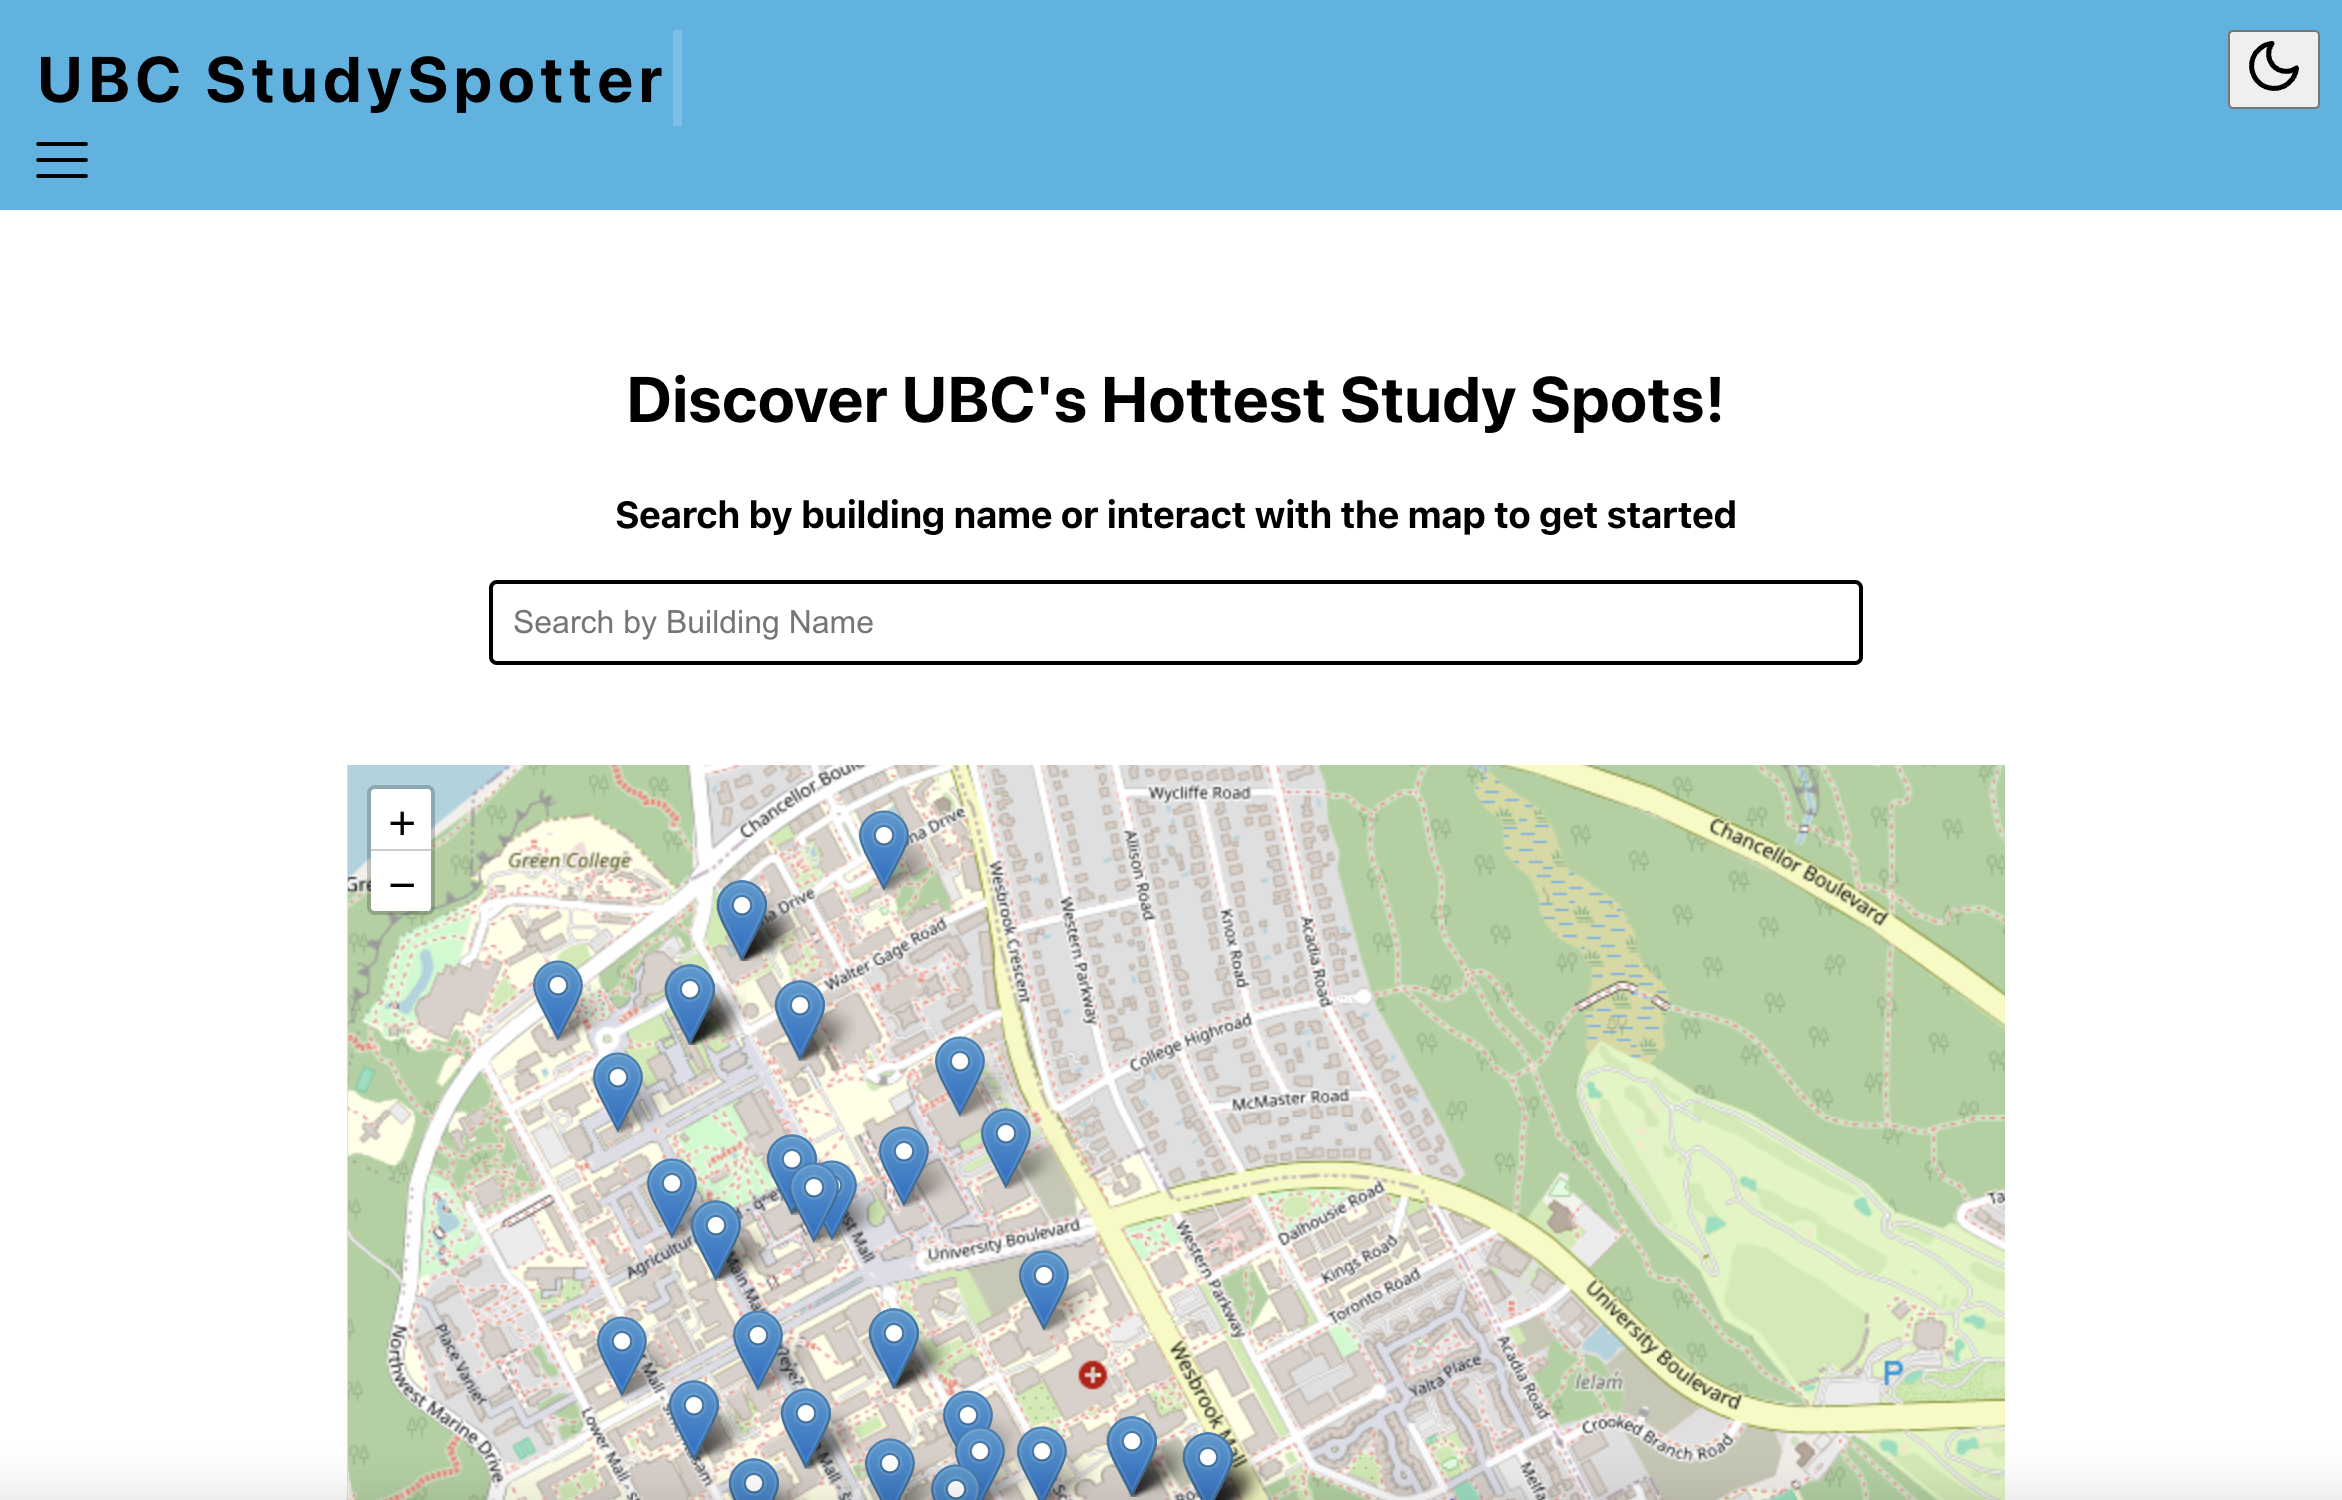
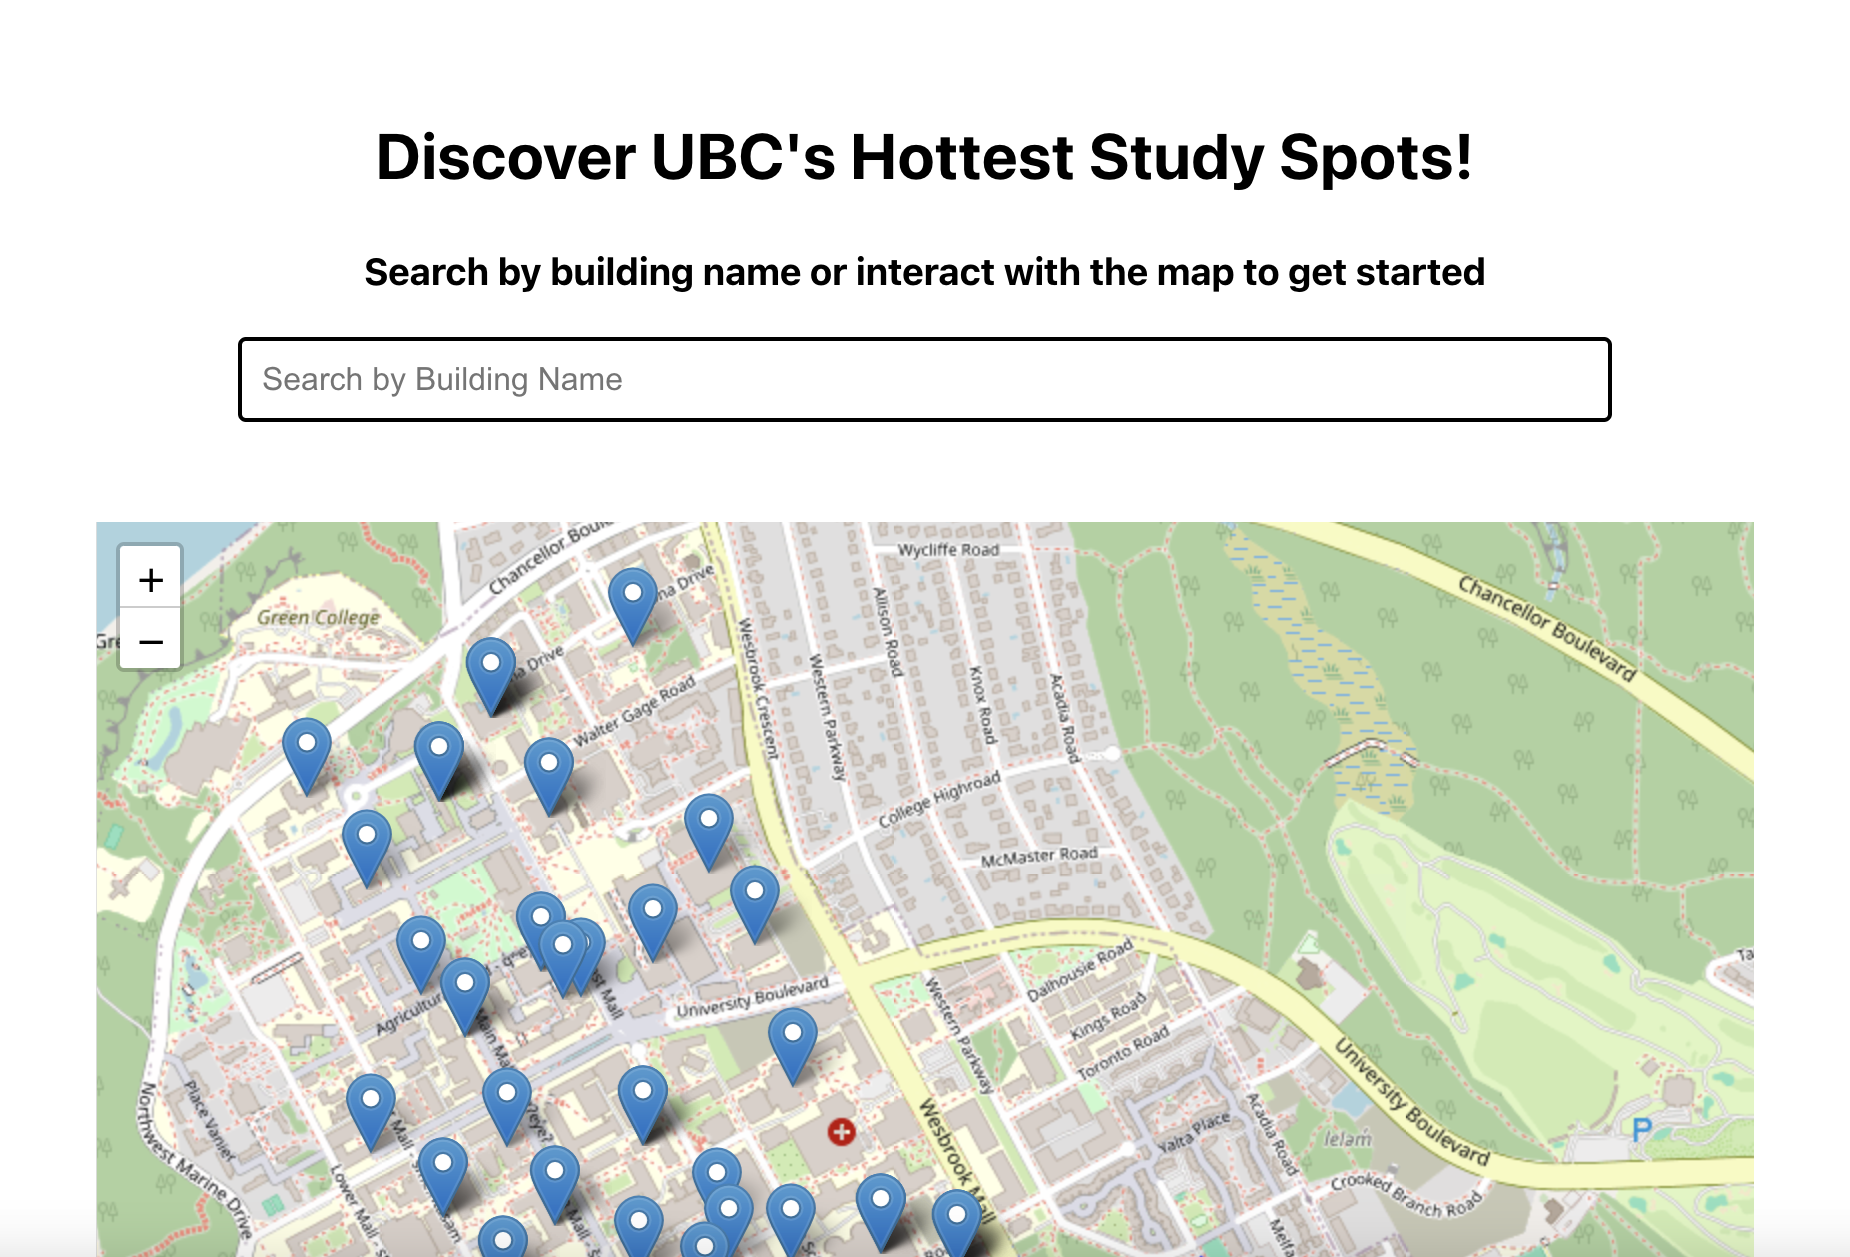
styling update

diff --git a/client/src/pages/About.jsx b/client/src/pages/About.jsx
@@ -1,25 +1,86 @@
-import React from 'react';
+// import React from 'react';
+// import main from '../assets/main.png';
+
+// const About = () => {
+//     return (
+//         <div>
+//             <h1>About UBC StudySpotter</h1>
+//             {/* Add information about the app and how to use it */}
+//             <div className="about">
+//             <p> Welcome to StudySpotter! UBC's hottest study spot finder. StudySpotter is an app that facilitates
+//                 the location and reservation of study spots on campus. Users will be able to view a map, check out amenities, 
+//                 and reserve spaces that will fit their needs.
+
+//                 To get started, select any waypoint on the map. This will tell you basic information about that point.
+//                 Upon selection, a pop-up will appear and display all amenities available at that location along with
+//                 the option to book private rooms via a link.
+//             </p>
+//             </div>
+//             <div className="panel">
+//                 <img src={main} alt="main" style={{ width: '100%', height: 'auto' }} />
+//             </div>
+//             <div className="panel">
+//             </div>
+//         </div>
+//     );
+// };
+
+// export default About;
+import React, { useEffect, useRef } from 'react';
 import main from '../assets/main.png';
+import waypoint from '../assets/waypoint.png';
 
 const About = () => {
+    const panelRefs = useRef([]);
+
+    useEffect(() => {
+        const observer = new IntersectionObserver(
+            (entries, observer) => {
+                entries.forEach(entry => {
+                    if (entry.isIntersecting) {
+                        entry.target.classList.add('fade-in');
+                        observer.unobserve(entry.target);
+                    }
+                });
+            },
+            { threshold: 0.1 }
+        );
+
+        panelRefs.current.forEach(panel => {
+            if (panel) {
+                observer.observe(panel);
+            }
+        });
+
+        return () => {
+            panelRefs.current.forEach(panel => {
+                if (panel) {
+                    observer.unobserve(panel);
+                }
+            });
+        };
+    }, []);
+
     return (
         <div>
             <h1>About UBC StudySpotter</h1>
-            {/* Add information about the app and how to use it */}
-            <div className="about">
-            <p> Welcome to StudySpotter! UBC's hottest study spot finder. StudySpotter is an app that facilitates
-                the location and reservation of study spots on campus. Users will be able to view a map, check out amenities, 
-                and reserve spaces that will fit their needs.
+            {/* <div className="about">
+                <p> Welcome to StudySpotter! UBC's hottest study spot finder. StudySpotter is an app that facilitates
+                    the location and reservation of study spots on campus. Users will be able to view a map, check out amenities, 
+                    and reserve spaces that will fit their needs.
 
-                To get started, select any waypoint on the map. This will tell you basic information about that point.
-                Upon selection, a pop-up will appear and display all amenities available at that location along with
-                the option to book private rooms via a link.
-            </p>
-            </div>
-            <div className="panel">
+                    To get started, select any waypoint on the map. This will tell you basic information about that point.
+                    Upon selection, a pop-up will appear and display all amenities available at that location along with
+                    the option to book private rooms via a link.
+                </p>
+            </div> */}
+            <div className="panel" ref={el => panelRefs.current[0] = el}>
+                <h3 className="about-page-text">Explore and select waypoints!</h3>
                 <img src={main} alt="main" style={{ width: '100%', height: 'auto' }} />
             </div>
-            <div className="panel">
+            <div className="panel" ref={el => panelRefs.current[1] = el}>
+                <h3 className="about-page-text">Get information on the hottest study spots!</h3>
+                <img src={waypoint} alt="waypoint" style={{ width: '100%', height: 'auto' }} />
             </div>
         </div>
     );

diff --git a/client/src/App.css b/client/src/App.css
@@ -218,7 +218,7 @@ footer {
   text-align: center;
 }
 
-@keyframes typewriter {
+/* @keyframes typewriter {
   from {
     width: 0;
   }
@@ -236,12 +236,12 @@ footer {
   to {
     border-right-color: transparent;
   }
-}
+} */
 
 .typewriter {
   float: inline-start;
   overflow: hidden;
-  border-right: .15em solid rgba(255, 255, 255, 0.75);
+  /* border-right: .15em solid rgba(255, 255, 255, 0.75); */
   white-space: nowrap;
   margin: 0 auto;
   letter-spacing: .08em;
@@ -420,10 +420,22 @@ h3 {
 
 .panel {
   opacity: 0;
-  transform: translate3d(0, 100%, 0);
-  transition: opacity 0.5s ease-out, transform 0.5s ease-out;
+  width: 70%;
+  margin: auto;
+  margin-bottom: 50px;
+  padding: 20px;
+  box-shadow: 0 0 2px rgba(0, 0, 0, 0.5);
+  transform: translateY(20px);
+  transition: opacity 1s ease-out, transform 1s ease-out;
 }
 
-.panel.visible {
-  animation: fadeInUp 0.5s forwards;
+.panel.fade-in {
+  opacity: 1;
+  transform: translateY(0);
+}
+
+.about-page-text {
+  float:inline-start;
+  margin-left: 50px;
+  color: #FF4500;
 }

diff --git a/client/src/components/MapInterface.jsx b/client/src/components/MapInterface.jsx
@@ -171,9 +171,10 @@ const MapInterface = () => {
                     <div className="details-panel" onClick={(e) => e.stopPropagation()}>
                         <h2>{selectedPin.title}</h2>
                         <p>{selectedPin.description}</p> 
-                        {selectedPin.imageUrl && <img src={selectedPin.imageUrl} alt={selectedPin.title} style={{ width: '100%', height: 'auto' }} />}
-                        <label><strong>Capacity:</strong> {selectedPin.capacity}</label> 
+                        {selectedPin.imageUrl && <img src={selectedPin.imageUrl} alt={selectedPin.title} onerror="this.onerror=null; this.src='../assets/ubc_logo.jpg';" style={{ width: '100%', height: 'auto' }} />}
                         <br></br>
+                        <label><strong>Capacity:</strong> {selectedPin.capacity}</label> 
+
                         <br></br>
                         <a className='details-link' href={selectedPin.link}>Click for more info!</a>
 
